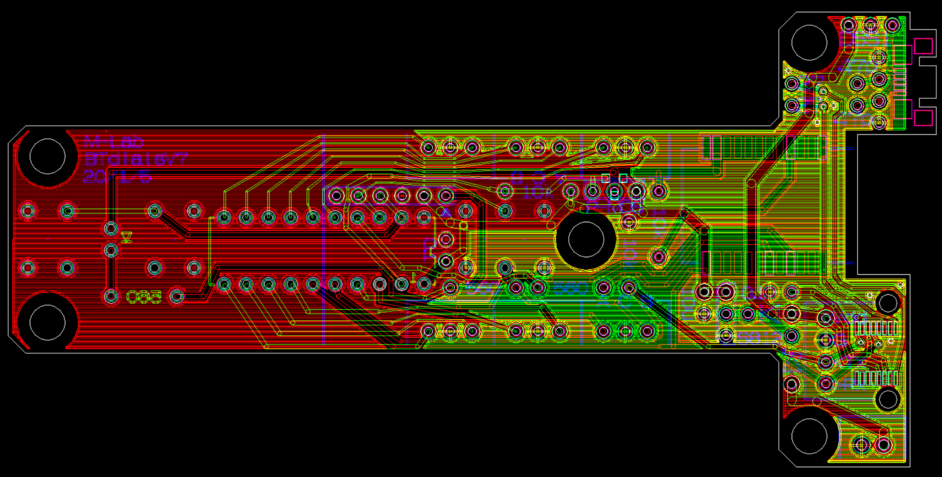
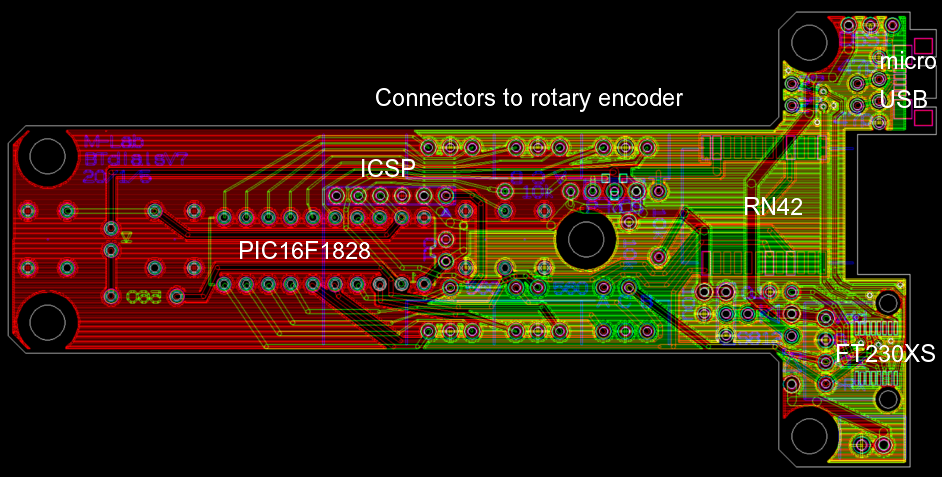
update200530

diff --git a/README.md b/README.md
@@ -25,7 +25,7 @@ There's nothing special. The MCU (PIC16F1828) receives signals from rotary encod
 <IMG alt=gerber src="pics/boardR7_200430.png"><BR>
 Gerber files are available from the 'gerber' folder. <BR>
 
-##PCB and BOM
+## BOM
 <IMG alt=gerber src="pics/pcbtop.png"><BR>
 <IMG alt=gerber src="pics/pcbbottom.png"><BR>
 
@@ -39,7 +39,7 @@ Rubber bumpons on the device back are essential. Without these bumpons, the devi
 <IMG alt=overall src="pics/rubberBumpons.png"><BR>
 
 We use connector cables to wire rotary encoders. This is because the encoders often go wrong when we use the device on a daily basis, so we have to replace them on the spot. There would be other workarounds but this seems easiest and cheapest.  
-<IMG alt=inside src="pics/inside.png"><BR>
+<IMG alt=inside src="pics/inside200530.png"><BR>
 
 ## Variations
 A portable model with a battery charging circuit. Its size is about 95 x 65 x 35 mm. It's equipped with wood knobs for the better usability. We purchased them as guitar knobs.   
